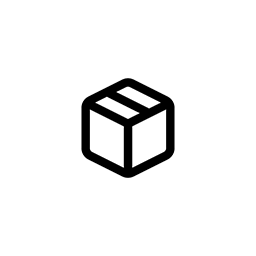
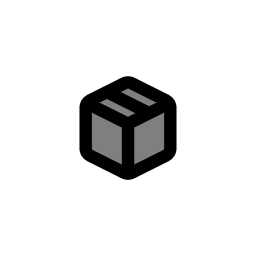
minor ui tweaks
Former-commit-id: 9e92e1c5ff52136a6488a9accc741ad31ba83289 [formerly 7de9785d38d9717399d7c319e289fc1d22cbe85a] [formerly 894a49d6329fa758979559f1bb6f3906f2e9a200 [formerly 82b1207b1713d5bcfe3b8e9afac005f1a06ed244]]
Former-commit-id: 3bab1fbf8dacae7deb54f265bb54738c3f58b38a [formerly 9bedc2f28f6a22e2886ad1e0eb4e9b3b27753394]
Former-commit-id: 3154ff003d381582d2b7dac58b10a4a992e53dcd

Changed region(s): [[0.2812, 0.3125, 0.7188, 0.6875], [0.4688, 0.6875, 0.5312, 0.7188], [0.4688, 0.2812, 0.5312, 0.3125]]

diff --git a/delegate.py b/delegate.py
@@ -311,14 +311,16 @@ class BaseDelegate(QtWidgets.QAbstractItemDelegate):
         pos = self.parent().mapFromGlobal(pos)
 
         # Icon
-        color = common.FAVOURITE if archived else common.SEPARATOR
+        sep = QtGui.QColor(common.SEPARATOR)
+        sep.setAlpha(150)
+        color = common.FAVOURITE if archived else sep
         painter.setPen(QtCore.Qt.NoPen)
         painter.setBrush(QtGui.QBrush(color))
 
         if archived:
             pixmap = ImageCache.get_rsc_pixmap(
                 u'archived', color, common.INLINE_ICON_SIZE)
-            painter.setBrush(common.SEPARATOR)
+            painter.setBrush(sep)
             painter.drawRoundedRect(
                 bg_rect, bg_rect.width() / 2.0, bg_rect.width() / 2.0)
         else:
@@ -337,8 +339,12 @@ class BaseDelegate(QtWidgets.QAbstractItemDelegate):
 
         rect, _ = self.get_inline_icon_rect(
             option.rect, common.INLINE_ICON_SIZE, 2)
+
+        sep = QtGui.QColor(common.SEPARATOR)
+        sep.setAlpha(150)
+
         pixmap = ImageCache.get_rsc_pixmap(
-            u'folder', common.SEPARATOR, common.INLINE_ICON_SIZE)
+            u'folder', sep, common.INLINE_ICON_SIZE)
         painter.setPen(QtCore.Qt.NoPen)
         painter.drawPixmap(rect, pixmap)
 
@@ -353,9 +359,10 @@ class BaseDelegate(QtWidgets.QAbstractItemDelegate):
 
         rect, _ = self.get_inline_icon_rect(
             option.rect, common.INLINE_ICON_SIZE, 3)
-
+        sep = QtGui.QColor(common.SEPARATOR)
+        sep.setAlpha(150)
         pixmap = ImageCache.get_rsc_pixmap(
-            u'todo', common.SEPARATOR, common.INLINE_ICON_SIZE)
+            u'todo', sep, common.INLINE_ICON_SIZE)
         painter.setPen(QtCore.Qt.NoPen)
         painter.drawPixmap(rect, pixmap)
 
@@ -398,6 +405,7 @@ class BaseDelegate(QtWidgets.QAbstractItemDelegate):
             color = QtGui.QColor(common.FAVOURITE)
         else:
             color = QtGui.QColor(common.SEPARATOR)
+            color.setAlpha(150)
 
         pos = QtGui.QCursor().pos()
         pos = self.parent().mapFromGlobal(pos)
@@ -448,11 +456,7 @@ class BaseDelegate(QtWidgets.QAbstractItemDelegate):
             else:
                 color = QtGui.QColor(common.BACKGROUND)
 
-            color.setHsl(
-                color.hue(),
-                color.saturation(),
-                color.lightness() - 0
-            )
+
             painter.setBrush(color)
             painter.drawRect(bg_rect)
 
@@ -650,8 +654,10 @@ class BookmarksWidgetDelegate(BaseDelegate):
         rect, bg_rect = self.get_inline_icon_rect(
             option.rect, common.INLINE_ICON_SIZE, self.parent().inline_icons_count() - 1)
 
+        sep = QtGui.QColor(common.SEPARATOR)
+        sep.setAlpha(150)
         if count:
-            pen = QtGui.QPen(common.SEPARATOR)
+            pen = QtGui.QPen(sep)
             pen.setWidth(2)
             painter.setPen(pen)
             painter.setBrush(common.SECONDARY_BACKGROUND)
@@ -663,7 +669,7 @@ class BookmarksWidgetDelegate(BaseDelegate):
 
         text = u'{}'.format(count)
         common.draw_aliased_text(
-            painter, font, rect, text, QtCore.Qt.AlignCenter, common.TEXT if count else common.SEPARATOR)
+            painter, font, rect, text, QtCore.Qt.AlignCenter, common.TEXT if count else sep)
 
     def sizeHint(self, option, index):
         """Custom size-hint. Sets the size of the files and asset widget items."""

diff --git a/bookmarkswidget.py b/bookmarkswidget.py
@@ -30,6 +30,7 @@ from browser.settings import MarkedAsActive, MarkedAsArchived, MarkedAsFavourite
 from browser.delegate import BookmarksWidgetDelegate
 from browser.delegate import BaseDelegate
 from browser.delegate import paintmethod
+import browser.editors as editors
 
 
 class ImageDownloader(QtCore.QObject):
@@ -395,11 +396,30 @@ class BookmarksWidget(BaseInlineIconWidget):
 
     def mouseDoubleClickEvent(self, event):
         """When the bookmark item is double-clicked the the item will be actiaved."""
-        index = self.selectionModel().currentIndex()
+        index = self.indexAt(event.pos())
+        rect = self.visualRect(index)
+        if not index.isValid():
+            return
         if index.flags() & MarkedAsArchived:
+            return
+
+
+        description_rect = QtCore.QRect(rect)
+        font = QtGui.QFont(common.PrimaryFont)
+        font.setPointSize(11)
+        metrics = QtGui.QFontMetrics(font)
+
+        center = description_rect.center()
+        description_rect.setHeight(metrics.height())
+        description_rect.moveCenter(center)
+
+        if description_rect.contains(event.pos()):
+            widget = editors.DescriptionEditorWidget(index, parent=self)
+            widget.show()
             return
         if not index.data(common.TodoCountRole):
             return common.reveal(index.data(QtCore.Qt.StatusTipRole))
+            
         self.activate(self.selectionModel().currentIndex())
 
 

diff --git a/listcontrolwidget.py b/listcontrolwidget.py
@@ -274,7 +274,7 @@ class ControlButton(ClickableLabel):
     def paintEvent(self, event):
         painter = QtGui.QPainter()
         painter.begin(self)
-        color = common.FAVOURITE if self.state() else common.SECONDARY_TEXT
+        color = common.FAVOURITE if self.state() else QtGui.QColor(255,255,255,50)
         pixmap = self.pixmap(color)
         painter.drawPixmap(self.rect(), pixmap, pixmap.rect())
         painter.end()

diff --git a/assetwidget.py b/assetwidget.py
@@ -287,7 +287,7 @@ class AssetWidget(BaseInlineIconWidget):
 
         source_index = self.model().mapToSource(index)
         if description_rect.contains(event.pos()):
-            widget = editors.DescriptionEditorWidget(source_index, parent=self)
+            widget = editors.DescriptionEditorWidget(index, parent=self)
             widget.show()
             return
         elif thumbnail_rect.contains(event.pos()):
